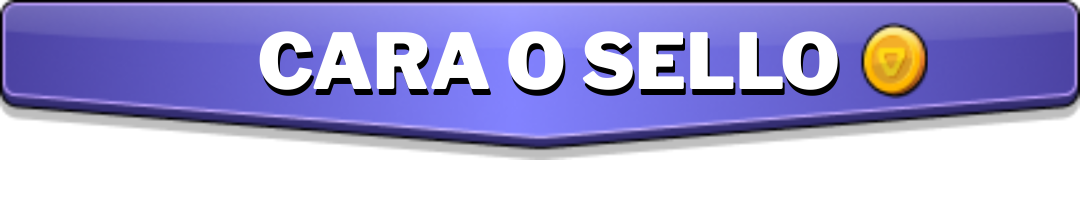
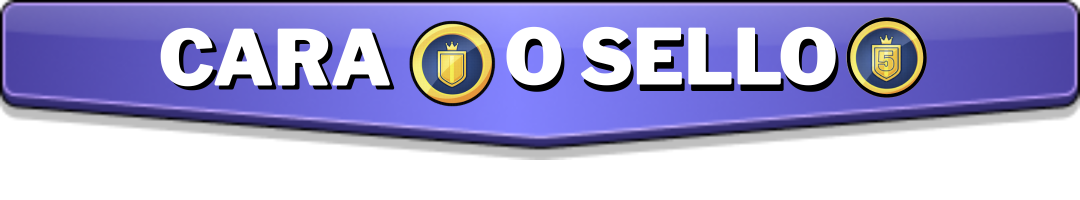
feat: implement coin images and flip animation for level 3

Changed region(s): [[0.1222, 0.09, 0.8861, 0.54]]

diff --git a/js/script.js b/js/script.js
@@ -592,20 +592,29 @@ function renderLevel3() {
     coinContainerDiv.className = 'coin-container-wrapper';
     coinContainerDiv.style.position = 'relative';
     coinContainerDiv.style.width = 'min(300px, 50vw)';
-    coinContainerDiv.style.height = 'auto';
-    coinContainerDiv.style.aspectRatio = '1';
+    coinContainerDiv.style.height = 'min(300px, 50vw)';
+    coinContainerDiv.style.display = 'flex';
+    coinContainerDiv.style.alignItems = 'center';
+    coinContainerDiv.style.justifyContent = 'center';
     
     const coinContainerBg = document.createElement('img');
     coinContainerBg.src = 'assets/ui/level3/coin-container.png';
+    coinContainerBg.style.position = 'absolute';
     coinContainerBg.style.width = '100%';
     coinContainerBg.style.height = '100%';
     coinContainerBg.style.objectFit = 'contain';
+    coinContainerBg.style.zIndex = '1';
     
-    // Moneda (inicialmente sin mostrar resultado)
-    const coinDiv = document.createElement('div');
-    coinDiv.className = 'coin-display';
+    // Moneda con imagen inicial
+    const coinDiv = document.createElement('img');
+    coinDiv.className = 'coin-image';
     coinDiv.id = 'coin';
-    coinDiv.textContent = '?';
+    coinDiv.src = 'assets/ui/level3/inicial-coin.png';
+    coinDiv.style.width = '70%';
+    coinDiv.style.height = '70%';
+    coinDiv.style.objectFit = 'contain';
+    coinDiv.style.zIndex = '2';
+    coinDiv.style.position = 'relative';
     
     coinContainerDiv.appendChild(coinContainerBg);
     coinContainerDiv.appendChild(coinDiv);
@@ -791,9 +800,8 @@ function executeCoinFlip() {
     
     const coin = document.getElementById('coin');
     
-    // Animación de lanzamiento
-    coin.classList.add('flipping');
-    coin.textContent = '...';
+    // Animación de lanzamiento - agregar clase de flip
+    coin.classList.add('coin-flipping');
     
     setTimeout(() => {
         // Generar resultado aleatorio
@@ -802,10 +810,13 @@ function executeCoinFlip() {
         // Verificar si ganó
         const won = (result === selectedCoin);
         
-        // Actualizar moneda visual
-        coin.classList.remove('flipping');
-        coin.classList.add(result);
-        coin.textContent = result === 'cara' ? 'CARA' : 'SELLO';
+        // Actualizar imagen de la moneda según resultado
+        coin.classList.remove('coin-flipping');
+        if (result === 'cara') {
+            coin.src = 'assets/ui/level3/coin-face.png';
+        } else {
+            coin.src = 'assets/ui/level3/coin-tails.png';
+        }
         
         // Calcular ganancia/pérdida
         let payout = 0;
@@ -826,12 +837,12 @@ function executeCoinFlip() {
         coinFlipsRemaining--;
         isFirstFlip = false;
         
-        // Mostrar resultado
+        // Mostrar resultado después de que se vea la moneda
         setTimeout(() => {
             showCoinFlipResult(won, payout, result);
-        }, 800);
+        }, 500);
         
-    }, 1000);
+    }, 1500);
 }
 
 function showCoinFlipResult(won, payout, result) {
@@ -842,10 +853,13 @@ function showCoinFlipResult(won, payout, result) {
     const resultDiv = document.createElement('div');
     resultDiv.className = 'flip-result';
     
-    // Moneda con resultado
-    const coinDiv = document.createElement('div');
-    coinDiv.className = `coin-display ${result}`;
-    coinDiv.textContent = result === 'cara' ? 'CARA' : 'SELLO';
+    // Moneda con resultado usando la imagen
+    const coinImg = document.createElement('img');
+    coinImg.className = 'result-coin-image';
+    coinImg.src = result === 'cara' ? 'assets/ui/level3/coin-face.png' : 'assets/ui/level3/coin-tails.png';
+    coinImg.style.width = 'min(150px, 30vw)';
+    coinImg.style.height = 'min(150px, 30vw)';
+    coinImg.style.objectFit = 'contain';
     
     const messageDiv = document.createElement('div');
     messageDiv.className = won ? 'flip-message win' : 'flip-message lose';
@@ -860,7 +874,7 @@ function showCoinFlipResult(won, payout, result) {
     bankDiv.className = 'bank-display';
     bankDiv.textContent = `Banco actual: ${formatScoreValue(score)} puntos`;
     
-    resultDiv.appendChild(coinDiv);
+    resultDiv.appendChild(coinImg);
     resultDiv.appendChild(messageDiv);
     resultDiv.appendChild(bankDiv);
     
@@ -881,7 +895,7 @@ function showCoinFlipResult(won, payout, result) {
         // Puede continuar
         continueBtn.textContent = 'Continuar';
         continueBtn.addEventListener('click', () => {
-            // Reset selección
+            // Reset selección y volver a mostrar imagen inicial
             selectedCoin = null;
             renderLevel3();
         });

diff --git a/css/style.css b/css/style.css
@@ -699,43 +699,46 @@ body {
     width: 100%;
 }
 
-.coin-display {
-    position: absolute;
-    top: 50%;
-    left: 50%;
-    transform: translate(-50%, -50%);
-    width: 80px;
-    height: 80px;
-    border-radius: 50%;
-    background: linear-gradient(145deg, #ffd700, #ffed4e);
-    border: 4px solid #b8860b;
-    display: flex;
-    align-items: center;
-    justify-content: center;
-    font: 900 24px 'Montserrat';
-    color: #8b4513;
-    box-shadow: 0 8px 20px rgba(0,0,0,.3);
-    transition: transform 0.6s;
-    transform-style: preserve-3d;
-    z-index: 2;
+/* Moneda como imagen */
+.coin-image {
+    transition: transform 0.3s ease;
 }
 
-.coin-display.flipping {
-    animation: coinFlip 1s ease-in-out;
+.coin-flipping {
+    animation: coinFlipAnimation 1.5s ease-in-out;
 }
 
-@keyframes coinFlip {
-    0% { transform: rotateY(0deg); }
-    50% { transform: rotateY(1800deg); }
-    100% { transform: rotateY(1800deg); }
+@keyframes coinFlipAnimation {
+    0% {
+        transform: rotateY(0deg) translateY(0px);
+    }
+    25% {
+        transform: rotateY(360deg) translateY(-30px);
+    }
+    50% {
+        transform: rotateY(720deg) translateY(0px);
+    }
+    75% {
+        transform: rotateY(1080deg) translateY(-20px);
+    }
+    100% {
+        transform: rotateY(1440deg) translateY(0px);
+    }
 }
 
-.coin-display.cara {
-    background: linear-gradient(145deg, #ffd700, #ffed4e);
+.result-coin-image {
+    animation: coinReveal 0.5s ease-out;
 }
 
-.coin-display.sello {
-    background: linear-gradient(145deg, #c0c0c0, #e8e8e8);
+@keyframes coinReveal {
+    0% {
+        transform: scale(0.8);
+        opacity: 0;
+    }
+    100% {
+        transform: scale(1);
+        opacity: 1;
+    }
 }
 
 .bet-panel {
